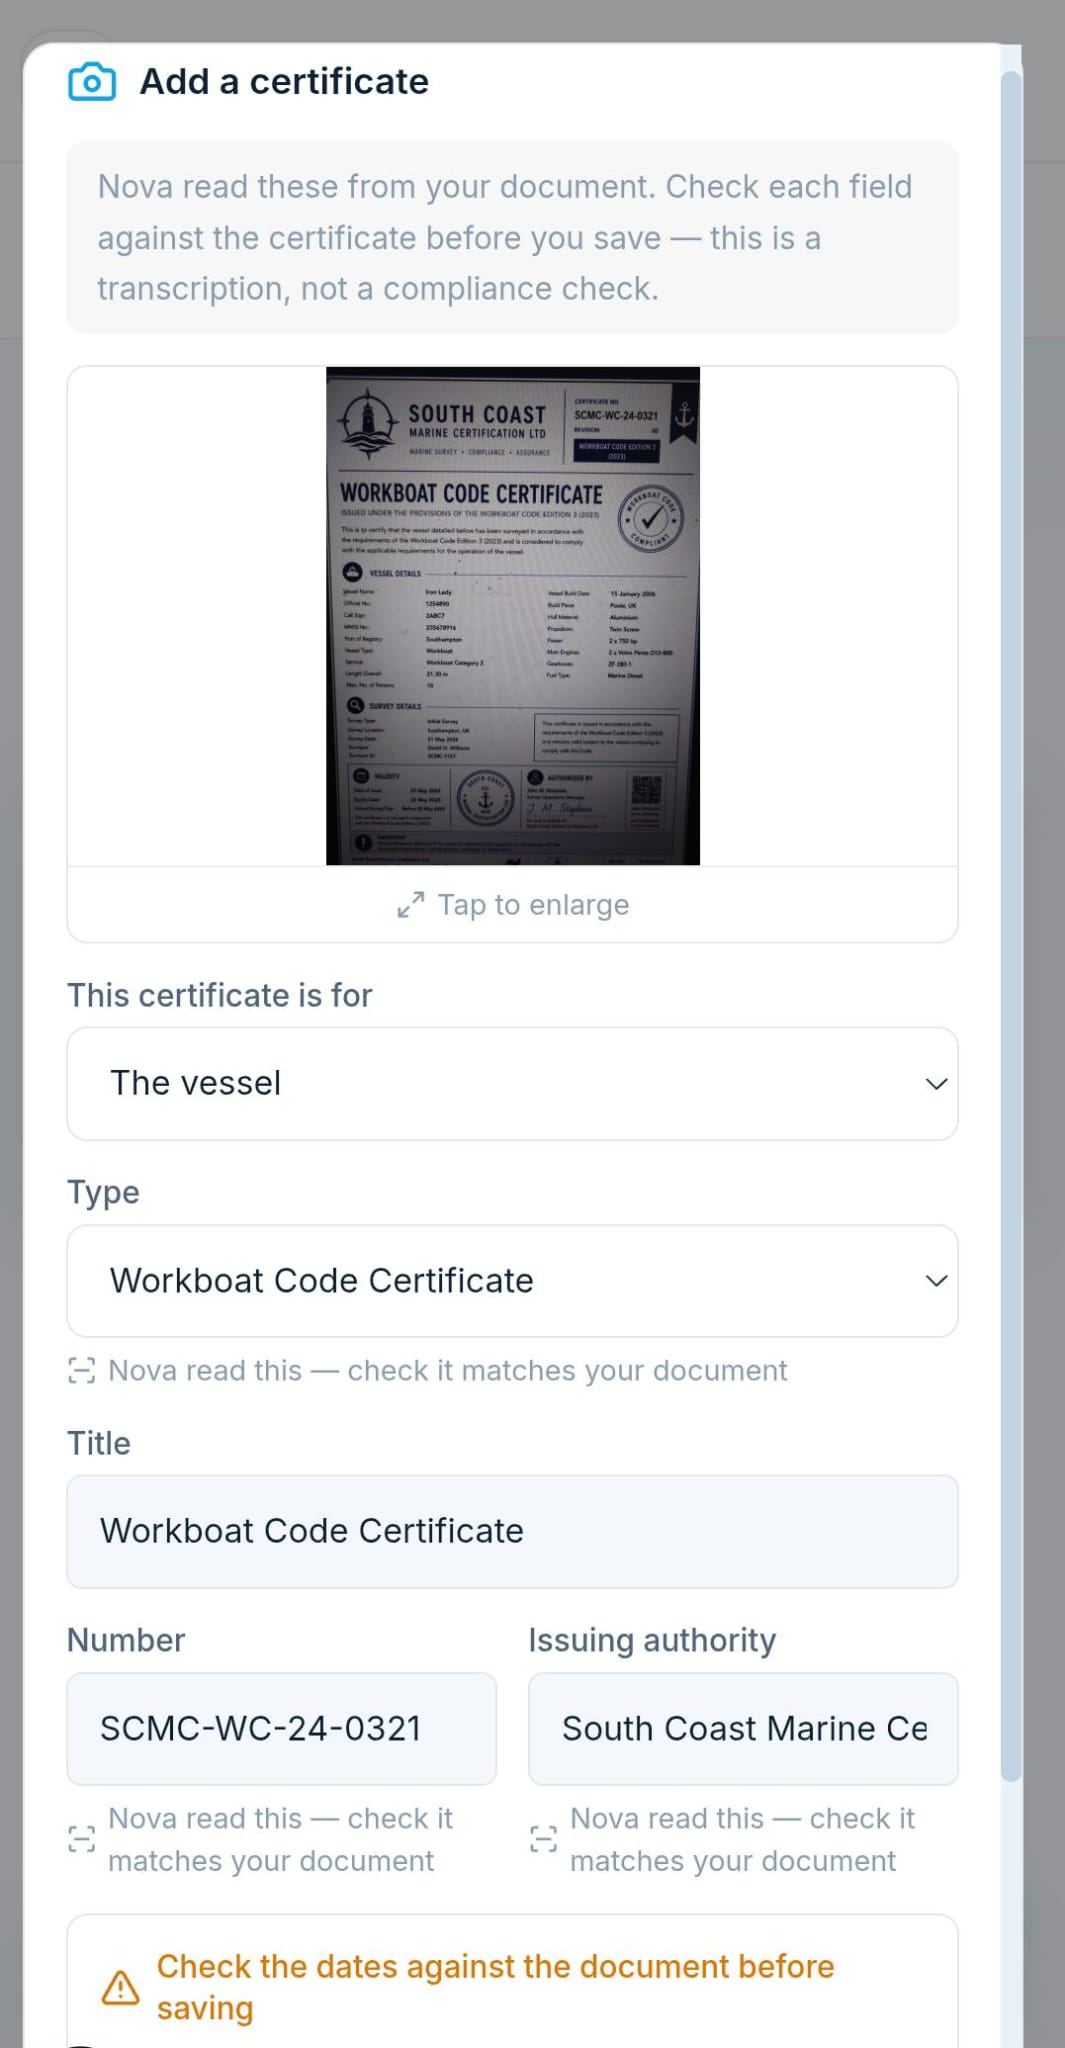
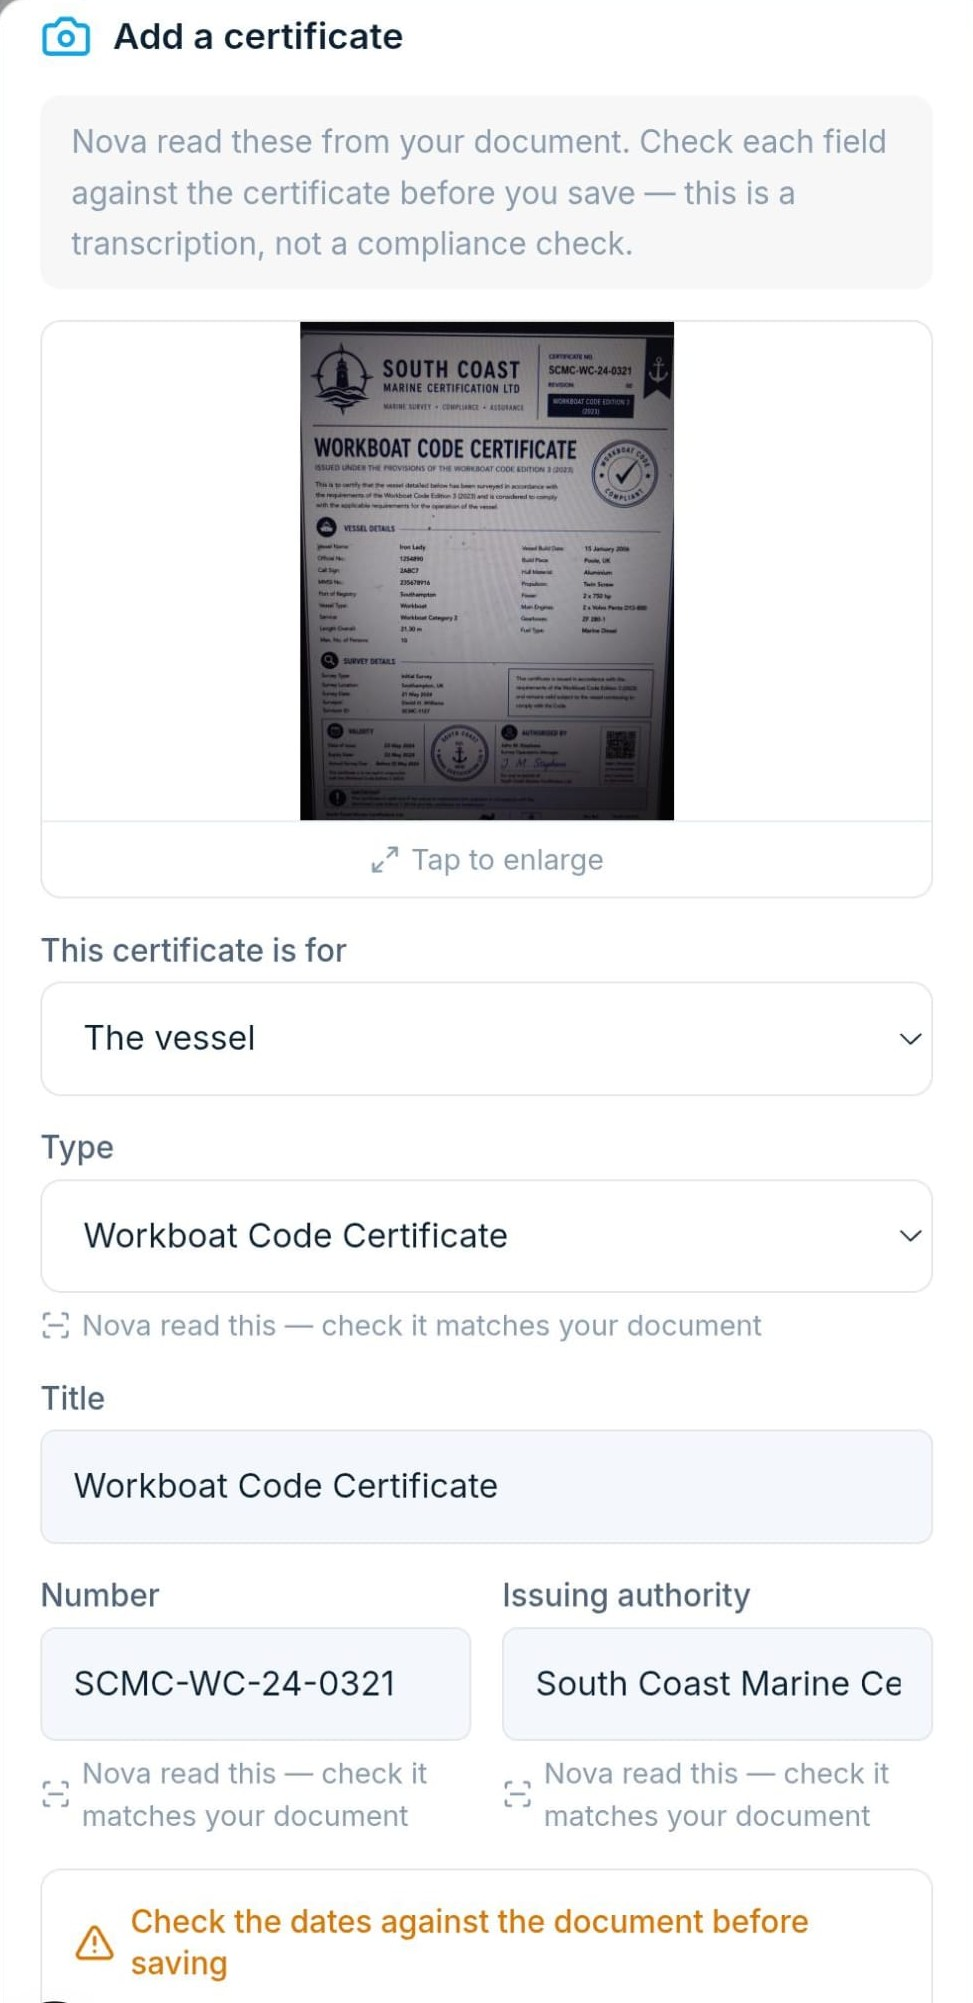
fix(site): outline "Try demo" button + crop the certificate screenshot to fill
- Nav: "Try demo" was pale brand-blue text sitting next to the solid-blue Apply
  button — low contrast, washed out. Switch it to btn-secondary (ocean outline),
  so it's a clear outline-vs-fill pairing with the primary CTA.
- How-it-works: the "Add a certificate" step screenshot was a capture of the
  dialog on a greyed backdrop, so it showed grey margins + a scrollbar and
  didn't fill its phone frame like the other (full-screen) step shots. Cropped
  it to the card so it fills edge-to-edge to match.

Site build green.

Changed region(s): [[0.0, 0.0, 1.0, 1.0], [0.0617, 0.4643, 0.37, 0.5572], [0.4933, 0.7738, 0.7708, 0.8048]]

diff --git a/src/components/Navigation.tsx b/src/components/Navigation.tsx
@@ -75,7 +75,7 @@ export default function Navigation() {
                   href={DEMO_URL}
                   target="_blank"
                   rel="noopener noreferrer"
-                  className="text-sm font-semibold text-brand-primary hover:bg-brand-primary/10 px-4 py-2 rounded-lg transition-colors"
+                  className="btn-secondary text-sm py-2"
                 >
                   Try demo
                 </a>
